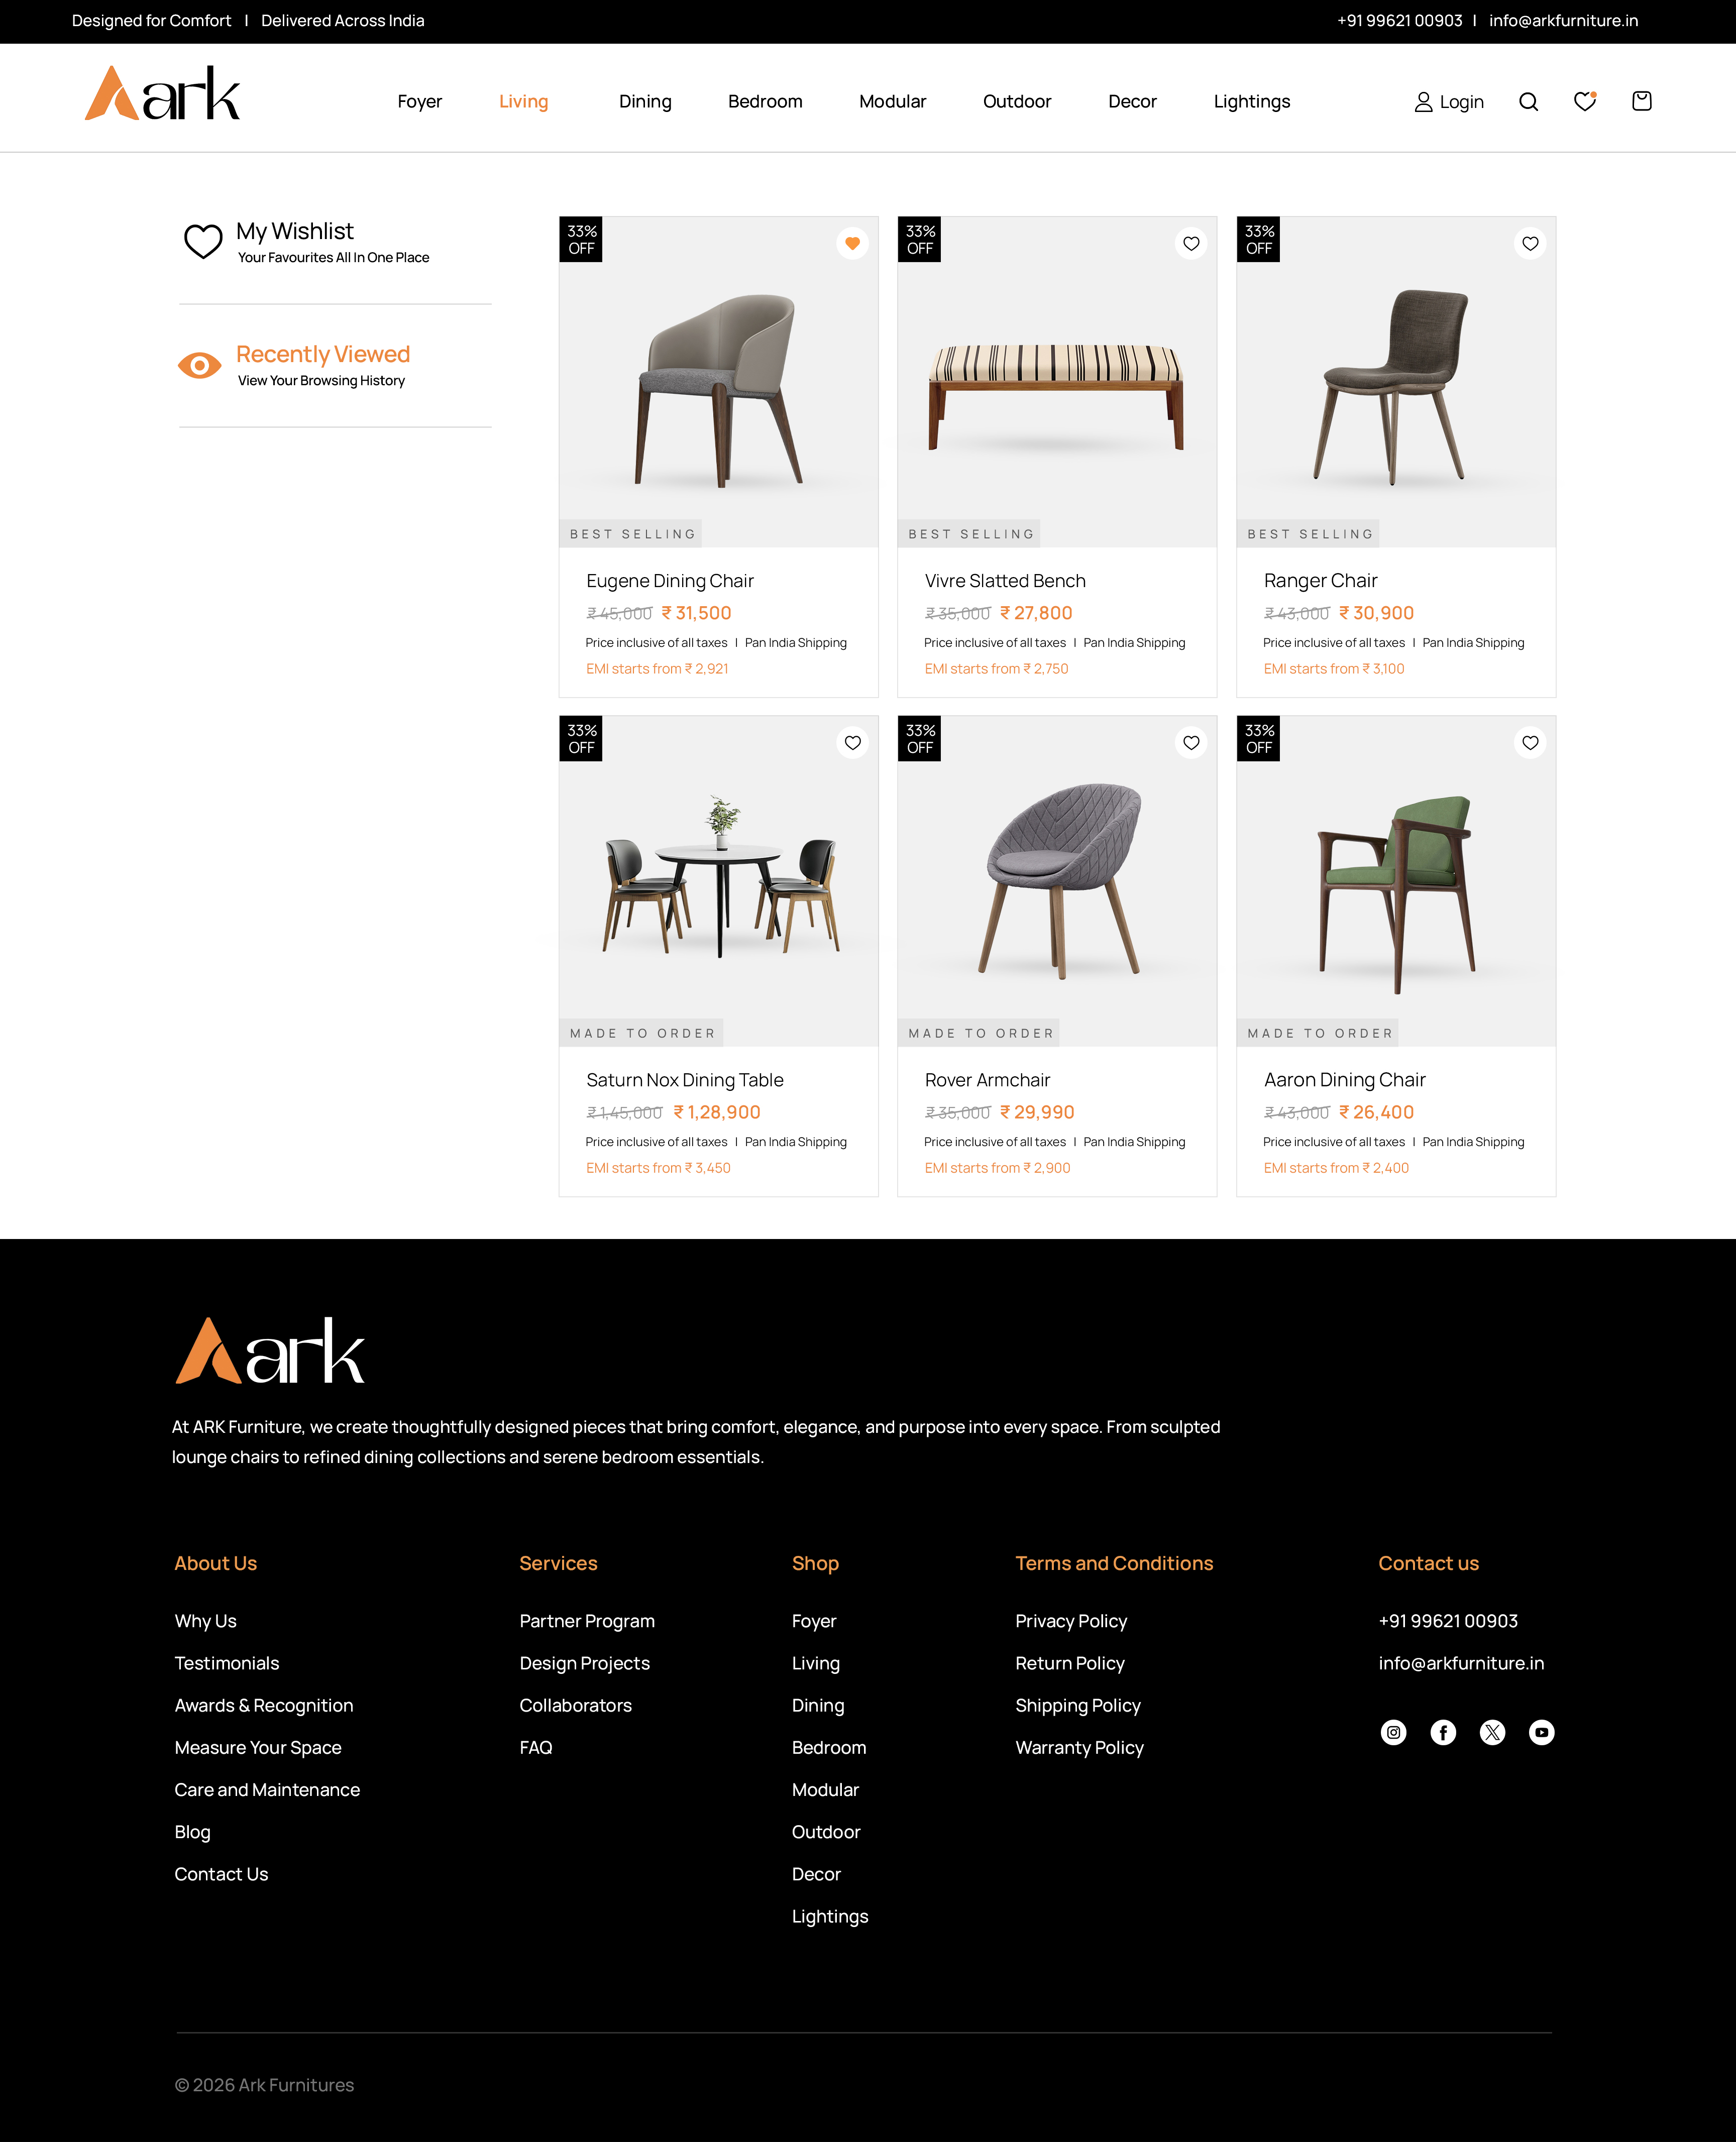
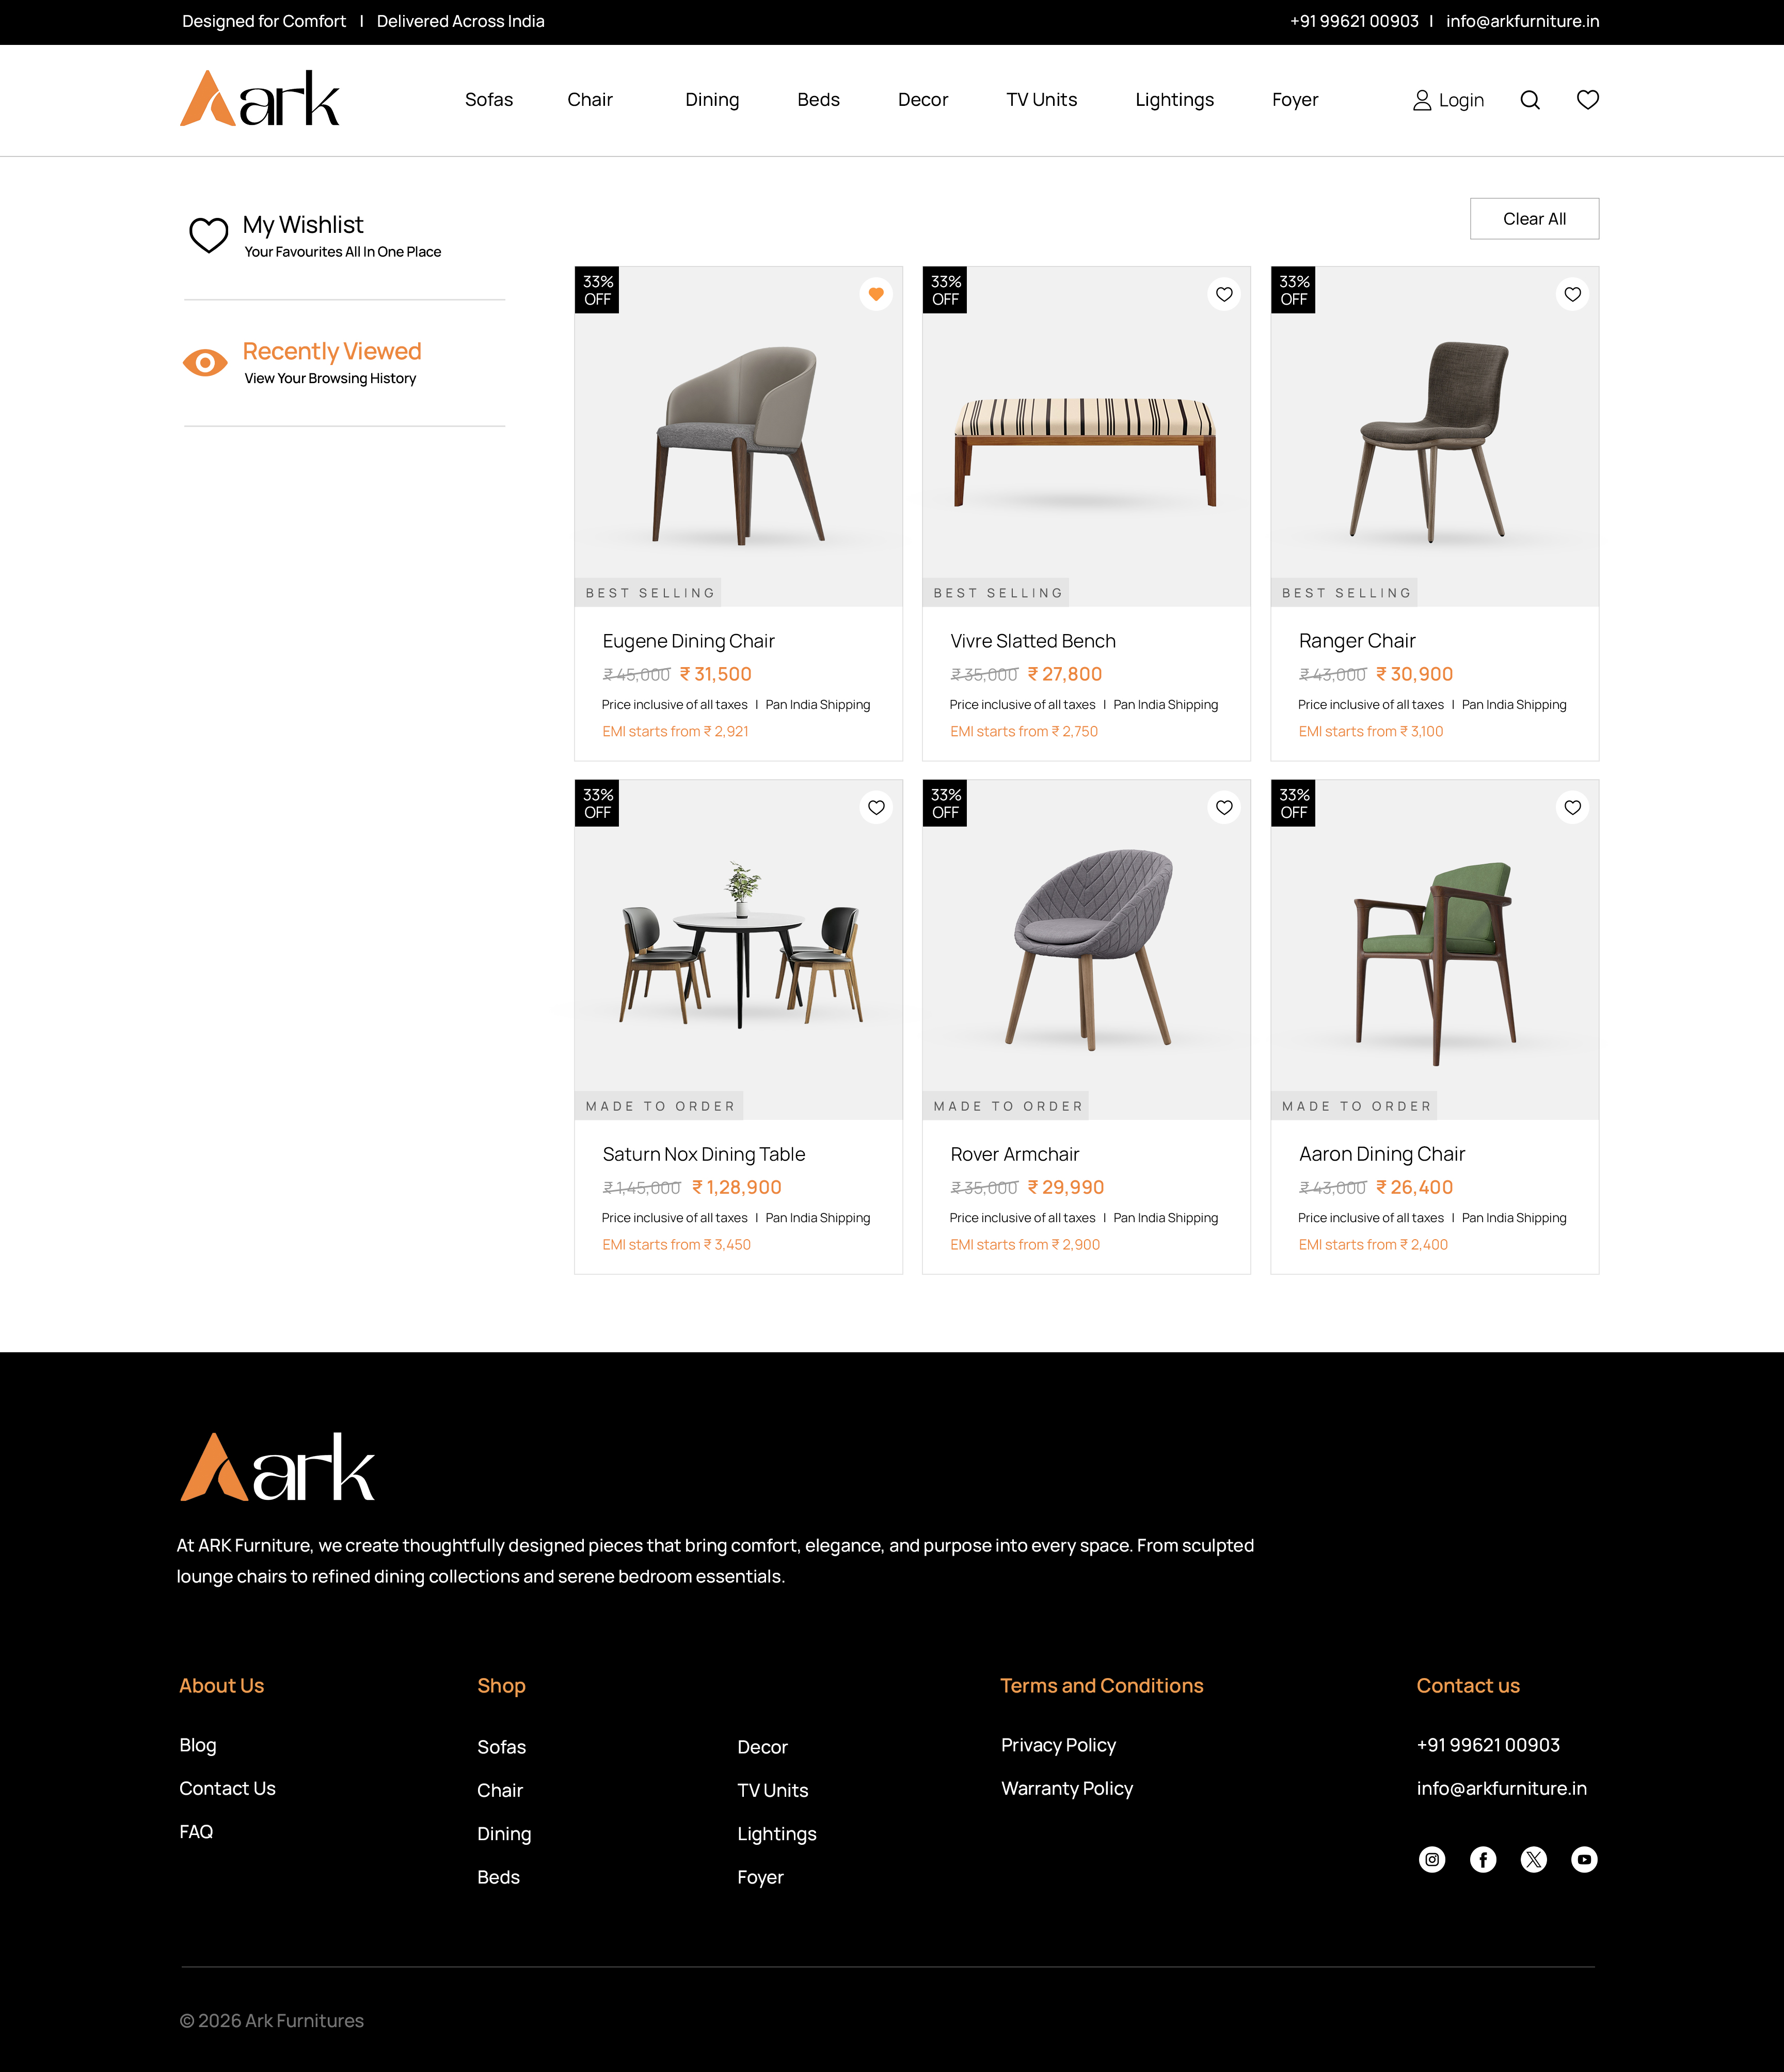
Fix: Update image links to match current filenames, add new pages (Wishlist, Sign Up, Wishlist Pop-up), remove missing pages

diff --git a/script.js b/script.js
@@ -1,19 +1,16 @@
 const pages = [
-    { title: "Home Page", file: "Home Page.jpg" },
-    { title: "About Us", file: "About Us.jpg" },
-    { title: "Product Page", file: "Product page.jpg" },
-    { title: "Product Details", file: "Product-Details-Page.jpg" },
-    { title: "Add to Cart", file: "Add to cart Page.jpg" },
-    { title: "Cart Details", file: "Cart Details page.jpg" },
-    { title: "My Wishlist", file: "My Wishlist.jpg" },
-    { title: "Recently Viewed", file: "Recently Viewed Page.jpg" },
-    { title: "Blog", file: "Blog.jpg" },
-    { title: "Contact Us", file: "Contact Us.jpg" },
-    { title: "Login Page", file: "Login Page.jpg" },
-    { title: "Privacy Policy", file: "Privacy Policy.jpg" },
-    { title: "Refund Policy", file: "Refunt Policy.jpg" },
-    { title: "Shipping Policy", file: "Shipping Policy.jpg" },
-    { title: "Warranty Policy", file: "Warranty Policy.jpg" }
+    { title: "Home Page",          file: "01-Home Page.jpg" },
+    { title: "Product Page",       file: "02-Product page.jpg" },
+    { title: "Product Details",    file: "03-Product Details Page.jpg" },
+    { title: "About Us",           file: "04-About Us.jpg" },
+    { title: "Contact Us",         file: "05-Contact Us.jpg" },
+    { title: "Blog",               file: "Blog.jpg" },
+    { title: "Privacy Policy",     file: "Privacy Policy.jpg" },
+    { title: "Recently Viewed",    file: "Recently Viewed Page.jpg" },
+    { title: "Sign Up Page",       file: "Sign up Page.jpg" },
+    { title: "Warranty Policy",    file: "Warranty Policy.jpg" },
+    { title: "Wishlist Pop-up",    file: "Wishlist Pop up form.jpg" },
+    { title: "Wishlist",           file: "Wishlist.jpg" }
 ];
 
 let currentIndex = 0;

diff --git a/index.html b/index.html
@@ -32,13 +32,13 @@
                 <div class="current-page-title" id="pageTitle">Home Page</div>
                 <div class="controls">
                     <button id="prevBtn" title="Previous Page">←</button>
-                    <span id="pageCounter">1 / 16</span>
+                    <span id="pageCounter">1 / 12</span>
                     <button id="nextBtn" title="Next Page">→</button>
                 </div>
             </div>
 
             <div class="image-container" id="imageContainer">
-                <img id="mainImage" src="Home Page.jpg" alt="Home Page">
+                <img id="mainImage" src="01-Home Page.jpg" alt="Home Page">
             </div>
         </main>
 